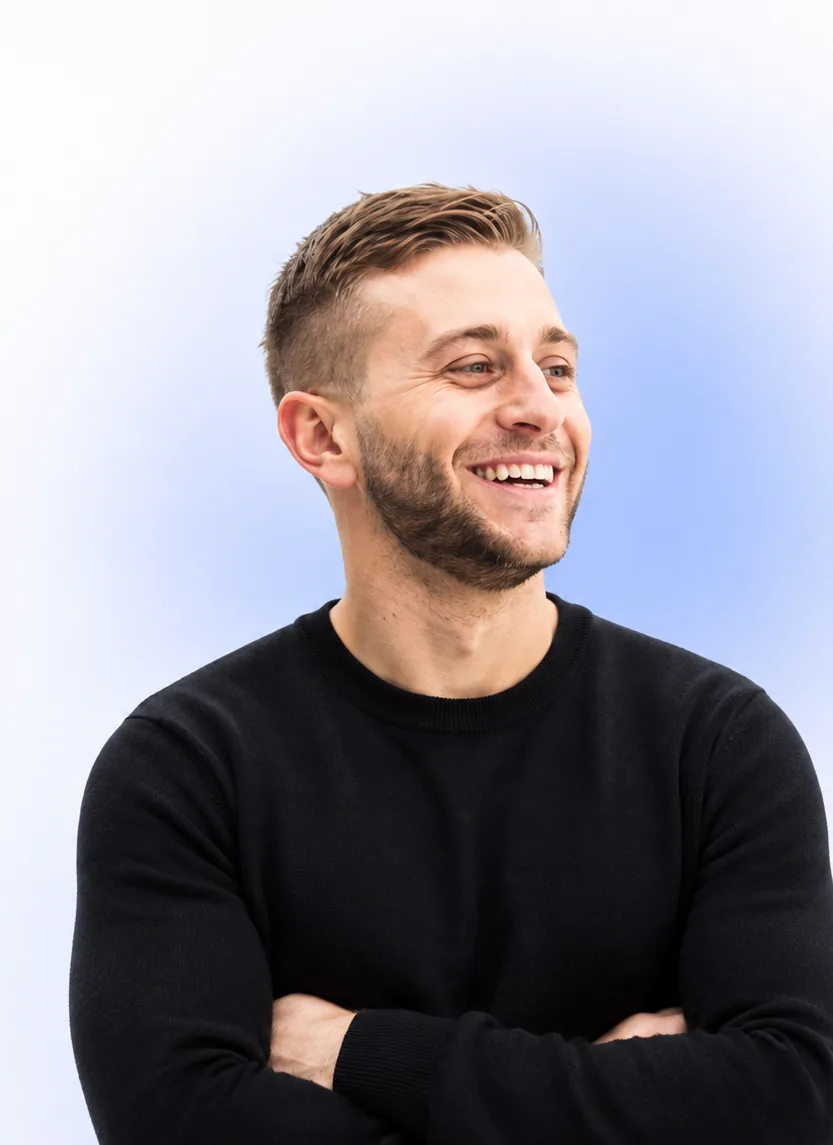
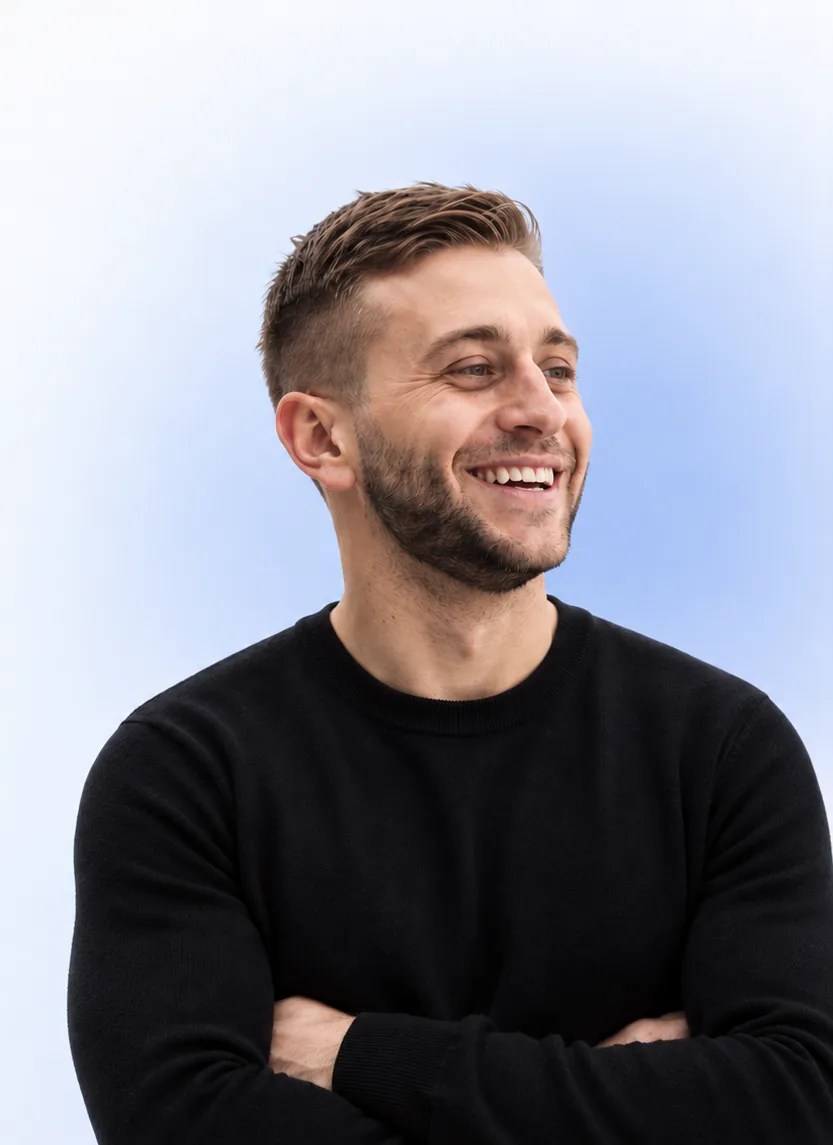
One place to book a time, one place to write in
The page asked for a time slot twice: the calendar, and then a second
"book a call" block at the top of the contact section. That block is gone.
The email fallback moves up beside the calendar, and what is left below is
the enquiry form with its own heading, so finalCta is renamed enquiry. The
form card no longer repeats the section heading above it.

Two links had to follow. BOOKING_URL fell back to #contact, which until a
real booking URL is set pointed every button in the nav, hero and pricing
cards at the form rather than the calendar; it now falls back to #booking,
as does the footer's "Book a call".

The bio is James's own correction: more than a decade at the consultancy,
not fifteen years, and he was there very early without being the founder.
Advised became helped solve, which sets up the closing paragraph.

The hero photo is recompressed from a replacement shot, same 833x1145 frame.

diff --git a/components/sections/Contact.tsx b/components/sections/Contact.tsx
@@ -1,11 +1,10 @@
 'use client';
 
 import { useState, type FormEvent } from 'react';
-import { ArrowRight, Loader2, CheckCircle2 } from 'lucide-react';
-import { Button, LinkButton } from '@/components/ui/button';
+import { Loader2, CheckCircle2 } from 'lucide-react';
+import { Button } from '@/components/ui/button';
 import { Input, Label, Textarea, Select } from '@/components/ui/input';
-import { finalCta } from '@/lib/content';
-import { isExternal } from '@/lib/config';
+import { enquiry } from '@/lib/content';
 
 type State =
   | { status: 'idle' }
@@ -14,21 +13,12 @@ type State =
   | { status: 'error'; message: string };
 
 /**
- * The closing call to action, Designjoy style: one big line, one big
- * button, and the email address. The form sits underneath for people who
- * would rather write than book.
+ * The enquiry form, for people who would rather write than pick a time. The
+ * booking section above owns the calendar and the email address, so there is
+ * exactly one place on the page to book a slot.
  */
-export function Contact({
-  bookingUrl,
-  contactEmail,
-  formEnabled,
-}: {
-  bookingUrl: string;
-  contactEmail: string;
-  formEnabled: boolean;
-}) {
+export function Contact({ formEnabled }: { formEnabled: boolean }) {
   const [state, setState] = useState<State>({ status: 'idle' });
-  const hasBooking = isExternal(bookingUrl);
 
   async function onSubmit(e: FormEvent<HTMLFormElement>) {
     e.preventDefault();
@@ -60,44 +50,17 @@ export function Contact({
       <div className="container">
         <div className="mx-auto max-w-3xl text-center">
           <h2 className="display text-balance text-display-lg font-bold">
-            {finalCta.title}
+            {enquiry.title}
           </h2>
           <p className="mt-5 text-lg leading-relaxed text-muted-foreground sm:text-xl">
-            {finalCta.body}
+            {enquiry.body}
           </p>
-          <div className="mt-9 flex flex-col items-center gap-4">
-            {hasBooking ? (
-              <LinkButton
-                href={bookingUrl}
-                size="xl"
-                target="_blank"
-                rel="noopener noreferrer"
-              >
-                {finalCta.cta}
-                <ArrowRight className="h-4 w-4" />
-              </LinkButton>
-            ) : (
-              <LinkButton href="#enquire" size="xl">
-                {finalCta.cta}
-                <ArrowRight className="h-4 w-4" />
-              </LinkButton>
-            )}
-            <p className="text-sm text-muted-foreground">
-              Prefer email?{' '}
-              <a
-                href={`mailto:${contactEmail}`}
-                className="font-semibold text-foreground underline underline-offset-4"
-              >
-                {contactEmail}
-              </a>
-            </p>
-          </div>
         </div>
 
         {formEnabled && (
           <div
             id="enquire"
-            className="mx-auto mt-16 max-w-2xl scroll-mt-24 rounded-2xl border border-border p-6 sm:p-10"
+            className="mx-auto mt-12 max-w-2xl scroll-mt-24 rounded-2xl border border-border p-6 sm:p-10"
           >
             {state.status === 'done' ? (
               <div className="py-10 text-center">
@@ -109,9 +72,6 @@ export function Contact({
               </div>
             ) : (
               <form onSubmit={onSubmit} className="space-y-5" noValidate>
-                <p className="display-sm text-2xl font-bold">
-                  Or send a few lines about your situation.
-                </p>
                 <div className="grid gap-5 sm:grid-cols-2">
                   <div>
                     <Label htmlFor="c-name">Name</Label>

diff --git a/lib/content.ts b/lib/content.ts
@@ -29,11 +29,11 @@ export const howItWorks = {
   steps: [
     {
       title: 'Subscribe',
-      body: 'Pick a plan. We start within a week with a short technical snapshot of where you are.',
+      body: 'Choose your plan. We start within a week with a short technical snapshot of where you are at today.',
     },
     {
       title: 'Ask',
-      body: 'Send anything technical. A quote to sanity-check, a hire to interview, a roadmap to write, a board note to draft.',
+      body: 'Give us your hardest problems to solve. Send through anything technical, business, process or otherwise. A quote to sanity-check, a hire to interview, a roadmap to write, a board paper to draft.',
     },
     {
       title: 'Done',
@@ -130,8 +130,8 @@ export const founder = {
    * of this section.
    */
   paragraphs: [
-    'I was employee number one at a Microsoft consultancy and I was still there at the exit. Fifteen years of building the thing, not presenting about it: hiring, shipping, and making the calls that get expensive when you get them wrong.',
-    'Along the way I advised CIOs and CTOs across banking, insurance, professional services and consumer brands. Same problems as yours, more zeros.',
+    'I joined a Microsoft consultancy when it was barely a company and helped grow it until it sold. More than a decade of building the thing, not presenting about it: hiring, shipping, and making the calls that get expensive when you get them wrong.',
+    'Along the way I have helped CIOs and CTOs solve their hardest problems, across banking, insurance, professional services and consumer brands. Same problems as yours, more zeros.',
     'Bring me your hardest problem, business or technical or somewhere in between. Together we work out where the answer actually sits: in the technology, in the process, or in the people. Usually it is all three.',
   ],
   /** Path under public/. Compressed from the original shoot; see README. */
@@ -183,17 +183,16 @@ export const faqs = {
 export const booking = {
   title: 'Find a time that works.',
   /** Set in the accent italic, on its own line. */
-  titleAccent: '(mine are fairly flexible)',
+  titleAccent: '(I can work around you)',
   body: 'Fifteen minutes on a call, no slides and no pitch. Bring the decision that is currently stuck and we will talk it through.',
   note: 'Times are shown in your local timezone.',
   clockLabel: 'Time format',
   noDayLabel: 'Pick a day',
 };
 
-export const finalCta = {
-  title: 'See if The Fractional CTO is the right fit for you.',
-  body: 'Fifteen minutes, no pitch. You leave with a clearer picture of where your technology stands, whether or not we work together.',
-  cta: 'Book a 15-min intro call',
+export const enquiry = {
+  title: 'Rather put it in writing?',
+  body: 'Send a few lines about where the business is and what is getting in the way. I read every one myself and reply within a business day.',
 };
 
 export const footer = {

diff --git a/components/sections/Booking.tsx b/components/sections/Booking.tsx
@@ -39,7 +39,13 @@ const SLOTS = [
 type Clock = '12h' | '24h';
 
 /** `today` is an ISO date (yyyy-mm-dd) from the server, so both renders agree. */
-export function Booking({ today }: { today: string }) {
+export function Booking({
+  today,
+  contactEmail,
+}: {
+  today: string;
+  contactEmail: string;
+}) {
   const [y, m, d] = today.split('-').map(Number);
   const base = useMemo(() => new Date(y, m - 1, d), [y, m, d]);
 
@@ -93,7 +99,16 @@ export function Booking({ today }: { today: string }) {
           <p className="mt-7 max-w-md text-lg leading-relaxed text-white/65">
             {booking.body}
           </p>
-          <p className="mt-8 text-sm text-white/45">{booking.note}</p>
+          <p className="mt-8 text-[15px] text-white/60">
+            Prefer email?{' '}
+            <a
+              href={`mailto:${contactEmail}`}
+              className="font-semibold text-white underline underline-offset-4"
+            >
+              {contactEmail}
+            </a>
+          </p>
+          <p className="mt-4 text-sm text-white/45">{booking.note}</p>
         </div>
 
         <div className="rounded-2xl border border-white/10 bg-white/[0.03] p-5 sm:p-6">

diff --git a/app/page.tsx b/app/page.tsx
@@ -83,12 +83,8 @@ export default function HomePage() {
         <Founder />
         {site.leadMagnetEnabled && <LeadMagnet />}
         <Faq />
-        <Booking today={today} />
-        <Contact
-          bookingUrl={site.bookingUrl}
-          contactEmail={site.contactEmail}
-          formEnabled={site.contactFormEnabled}
-        />
+        <Booking today={today} contactEmail={site.contactEmail} />
+        <Contact formEnabled={site.contactFormEnabled} />
       </main>
       <Footer siteName={site.siteName} contactEmail={site.contactEmail} />
       <script

diff --git a/lib/config.ts b/lib/config.ts
@@ -190,7 +190,7 @@ export function getSiteConfig(): SiteConfig {
       env.SITE_TAGLINE,
       'Senior technical leadership for growing businesses, one flat monthly fee. Pause or cancel anytime.',
     ),
-    bookingUrl: str(env.BOOKING_URL, '#contact'),
+    bookingUrl: str(env.BOOKING_URL, '#booking'),
     contactEmail: str(env.CONTACT_EMAIL, 'hello@thefractionalcto.com.au'),
     currency: str(env.CURRENCY, 'AUD'),
     tiers: (['advisor', 'fractional', 'embedded'] as TierKey[]).map(readTier),

diff --git a/components/sections/Footer.tsx b/components/sections/Footer.tsx
@@ -29,7 +29,7 @@ export function Footer({
             <a href={`mailto:${contactEmail}`} className="hover:underline">
               {contactEmail}
             </a>
-            <a href="#contact" className="hover:underline">Book a call</a>
+            <a href="#booking" className="hover:underline">Book a call</a>
             <a href="/privacy" className="hover:underline">Privacy</a>
           </nav>
         </div>
